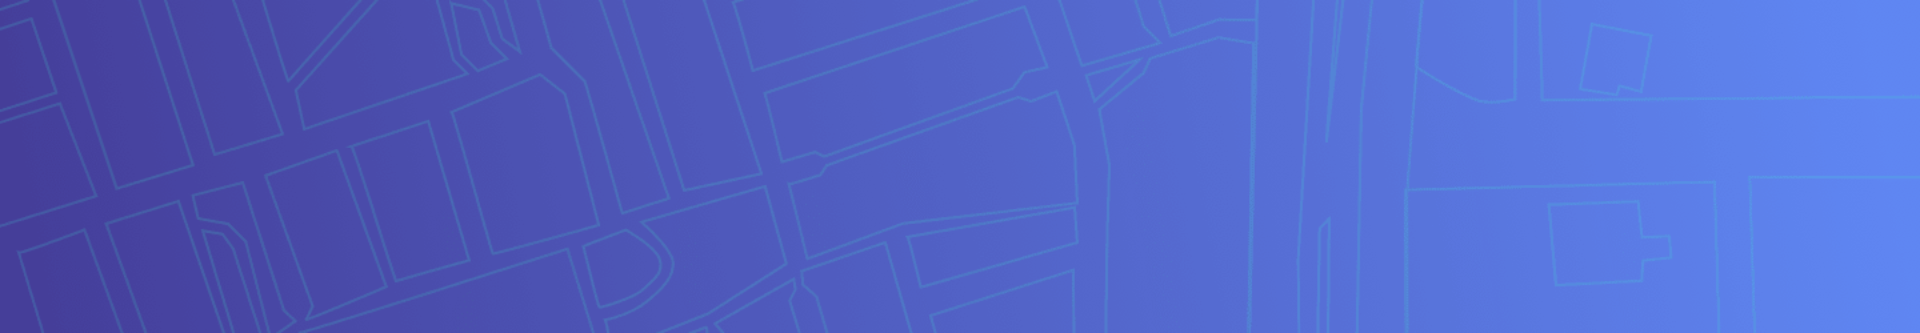
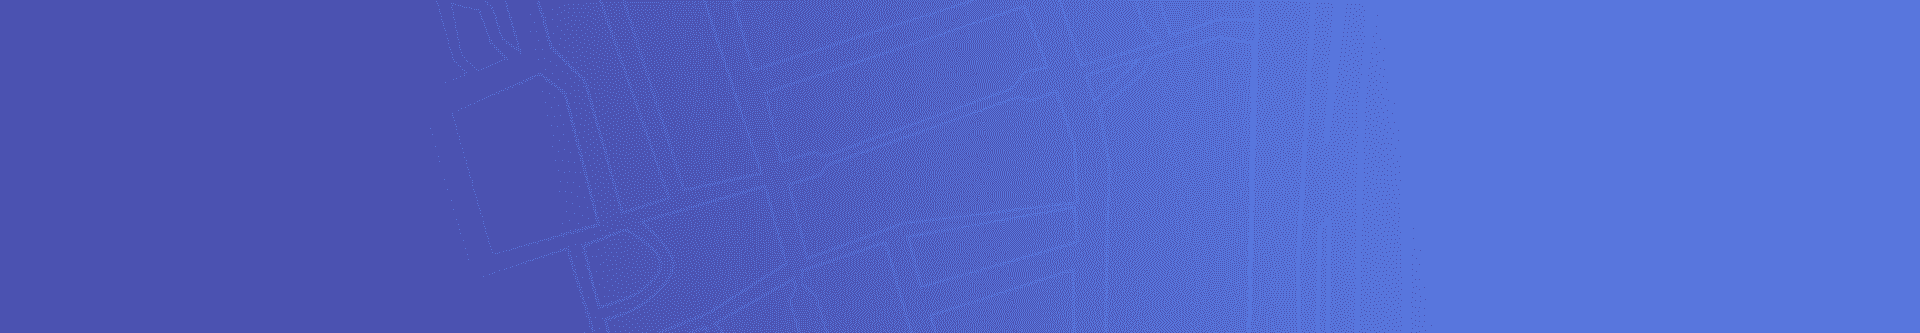
First Commit

Changed region(s): [[0.3125, 0.0, 0.7188, 1.0], [0.875, 0.2703, 1.0, 0.3003], [0.9062, 0.5105, 1.0, 0.5405]]

diff --git a/src/App.jsx b/src/App.jsx
@@ -44,11 +44,10 @@ function App() {
         }
       })
       .catch(err => console.error(err))
-     
+
     setTimeout(() => {
       return setMapLoading(true)
-    }, 1000)
-    
+    }, 1000 * 1)
   }, [RenderUseEffect])
 
   function handleChange(event) {

diff --git a/src/index.css b/src/index.css
@@ -16,7 +16,7 @@ body {
 }
 
 .container {
-  background-image: url('https://i.ibb.co/94Wb5d8/pattern-bg.png');
+  background-image: url('./images/pattern-bg.png');
   background-repeat: no-repeat;
   background-size: contain;
   text-align: center;
